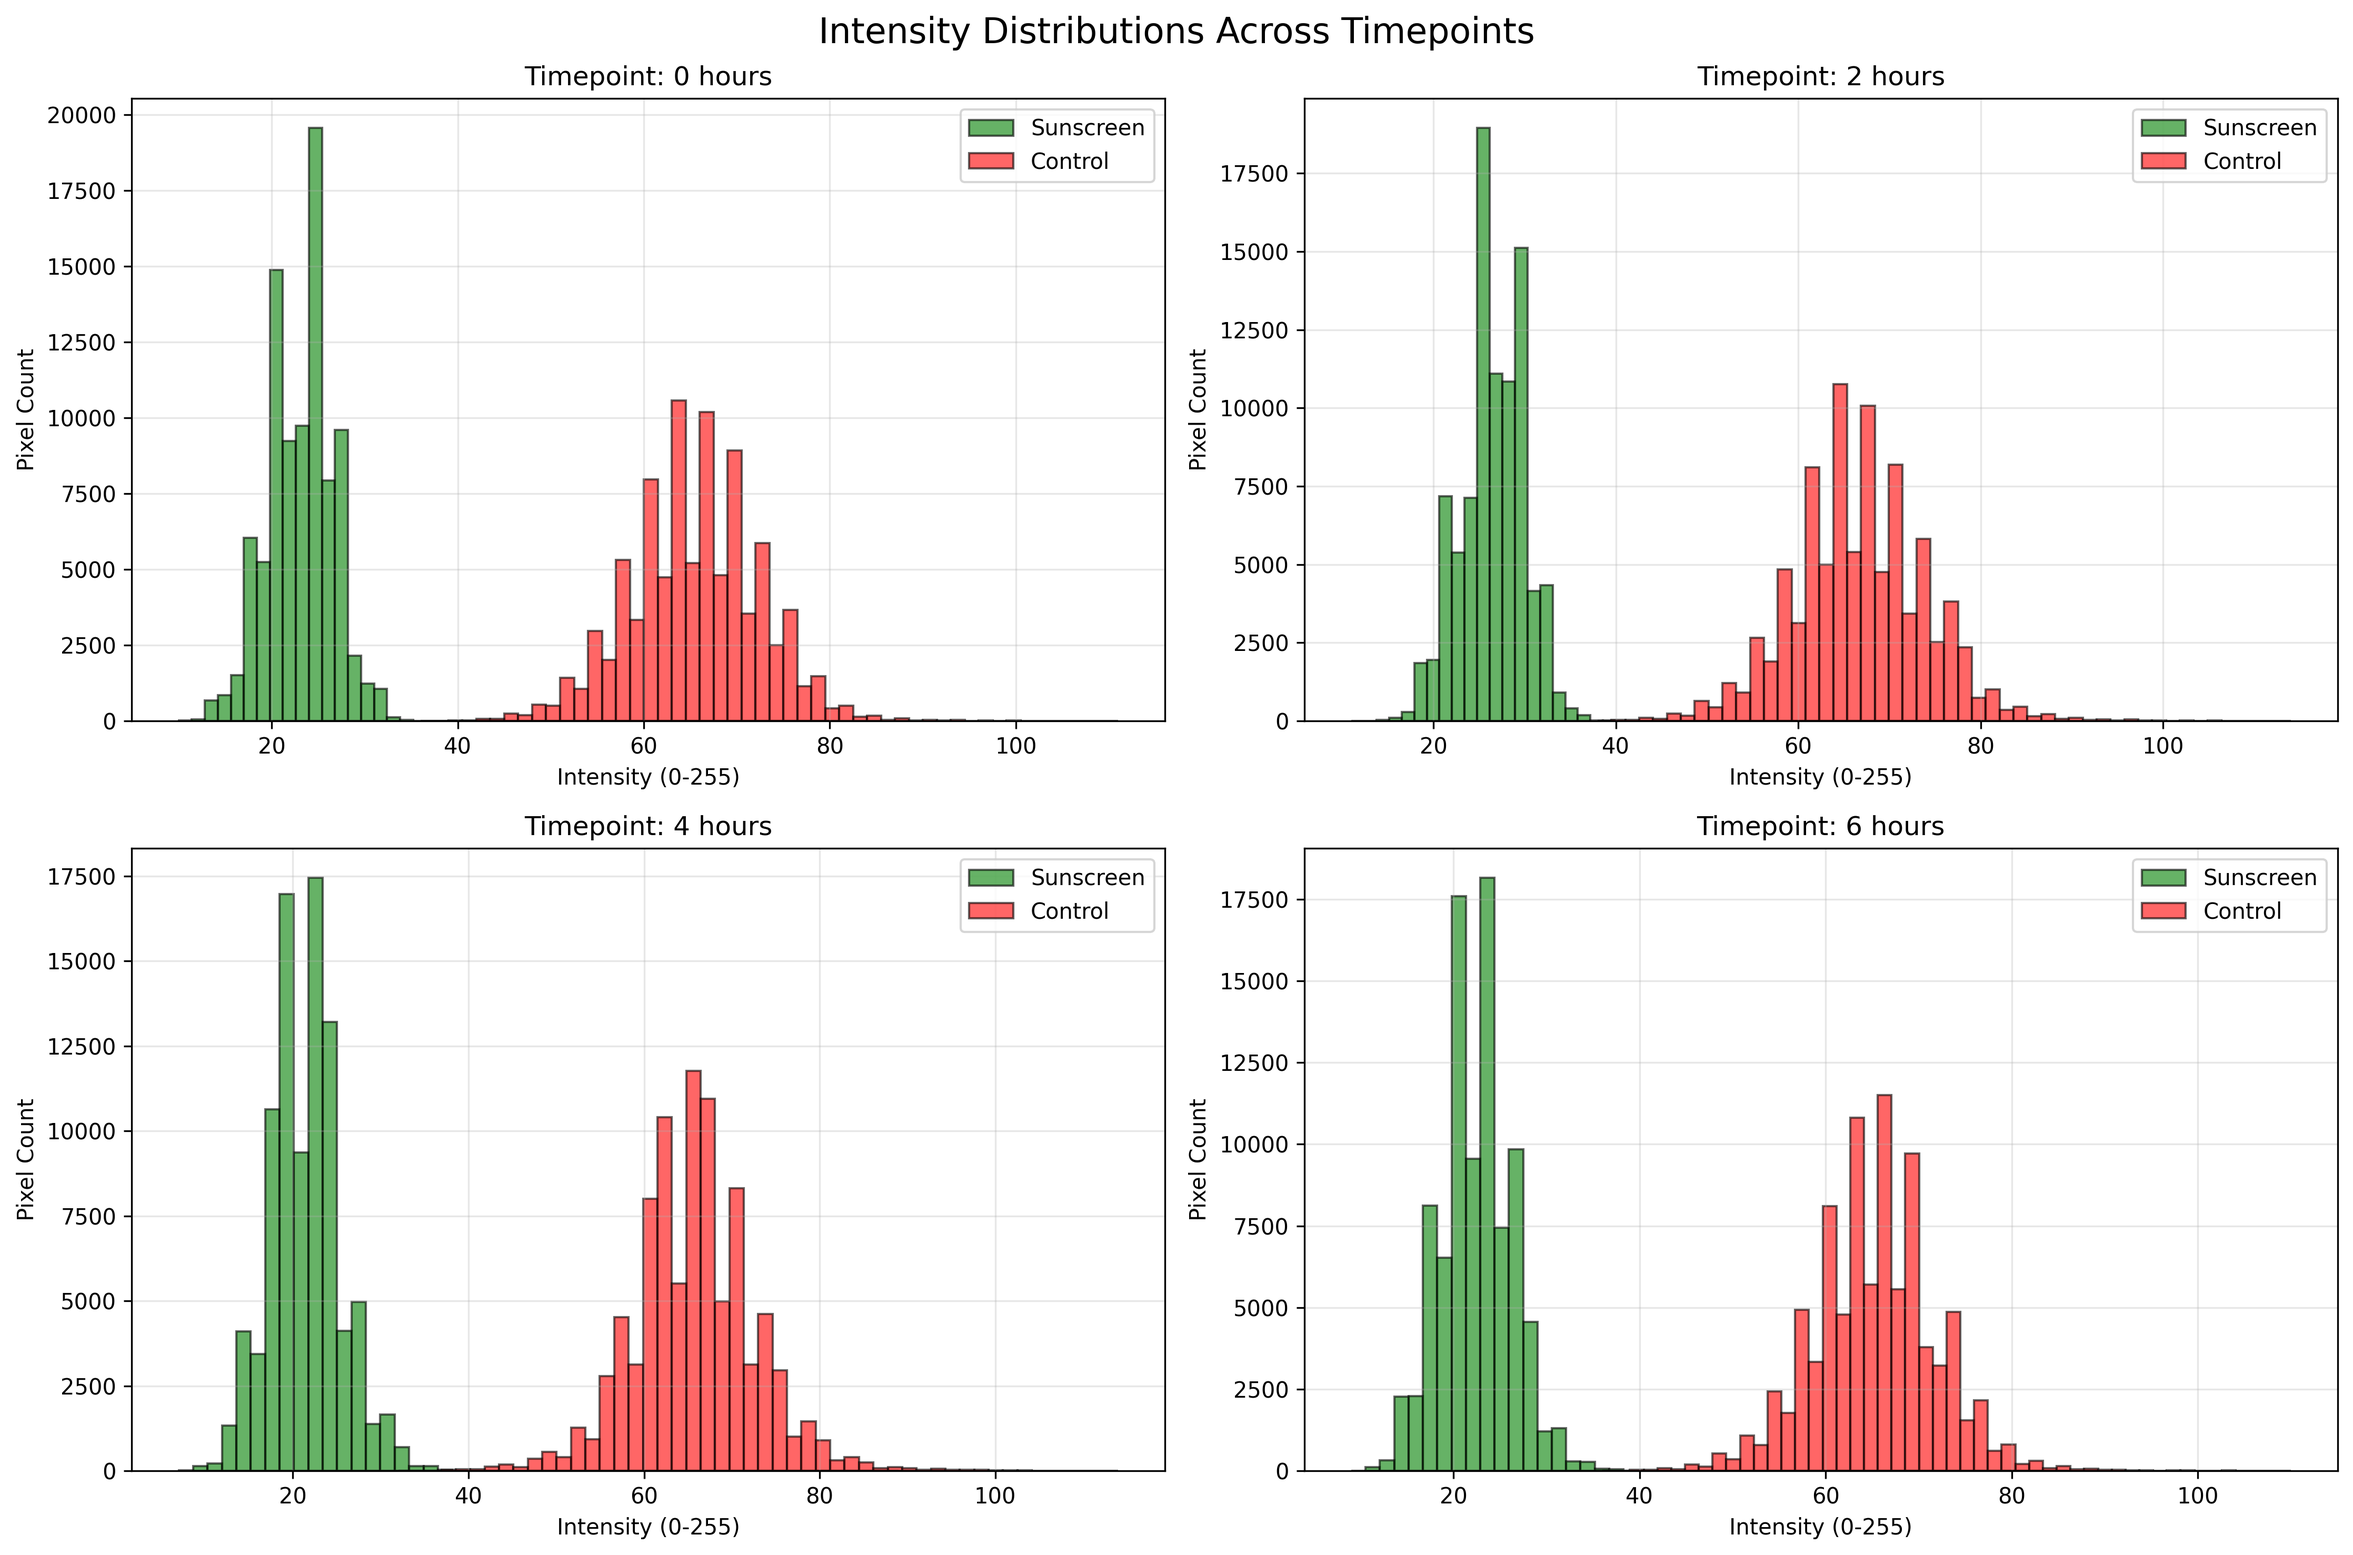
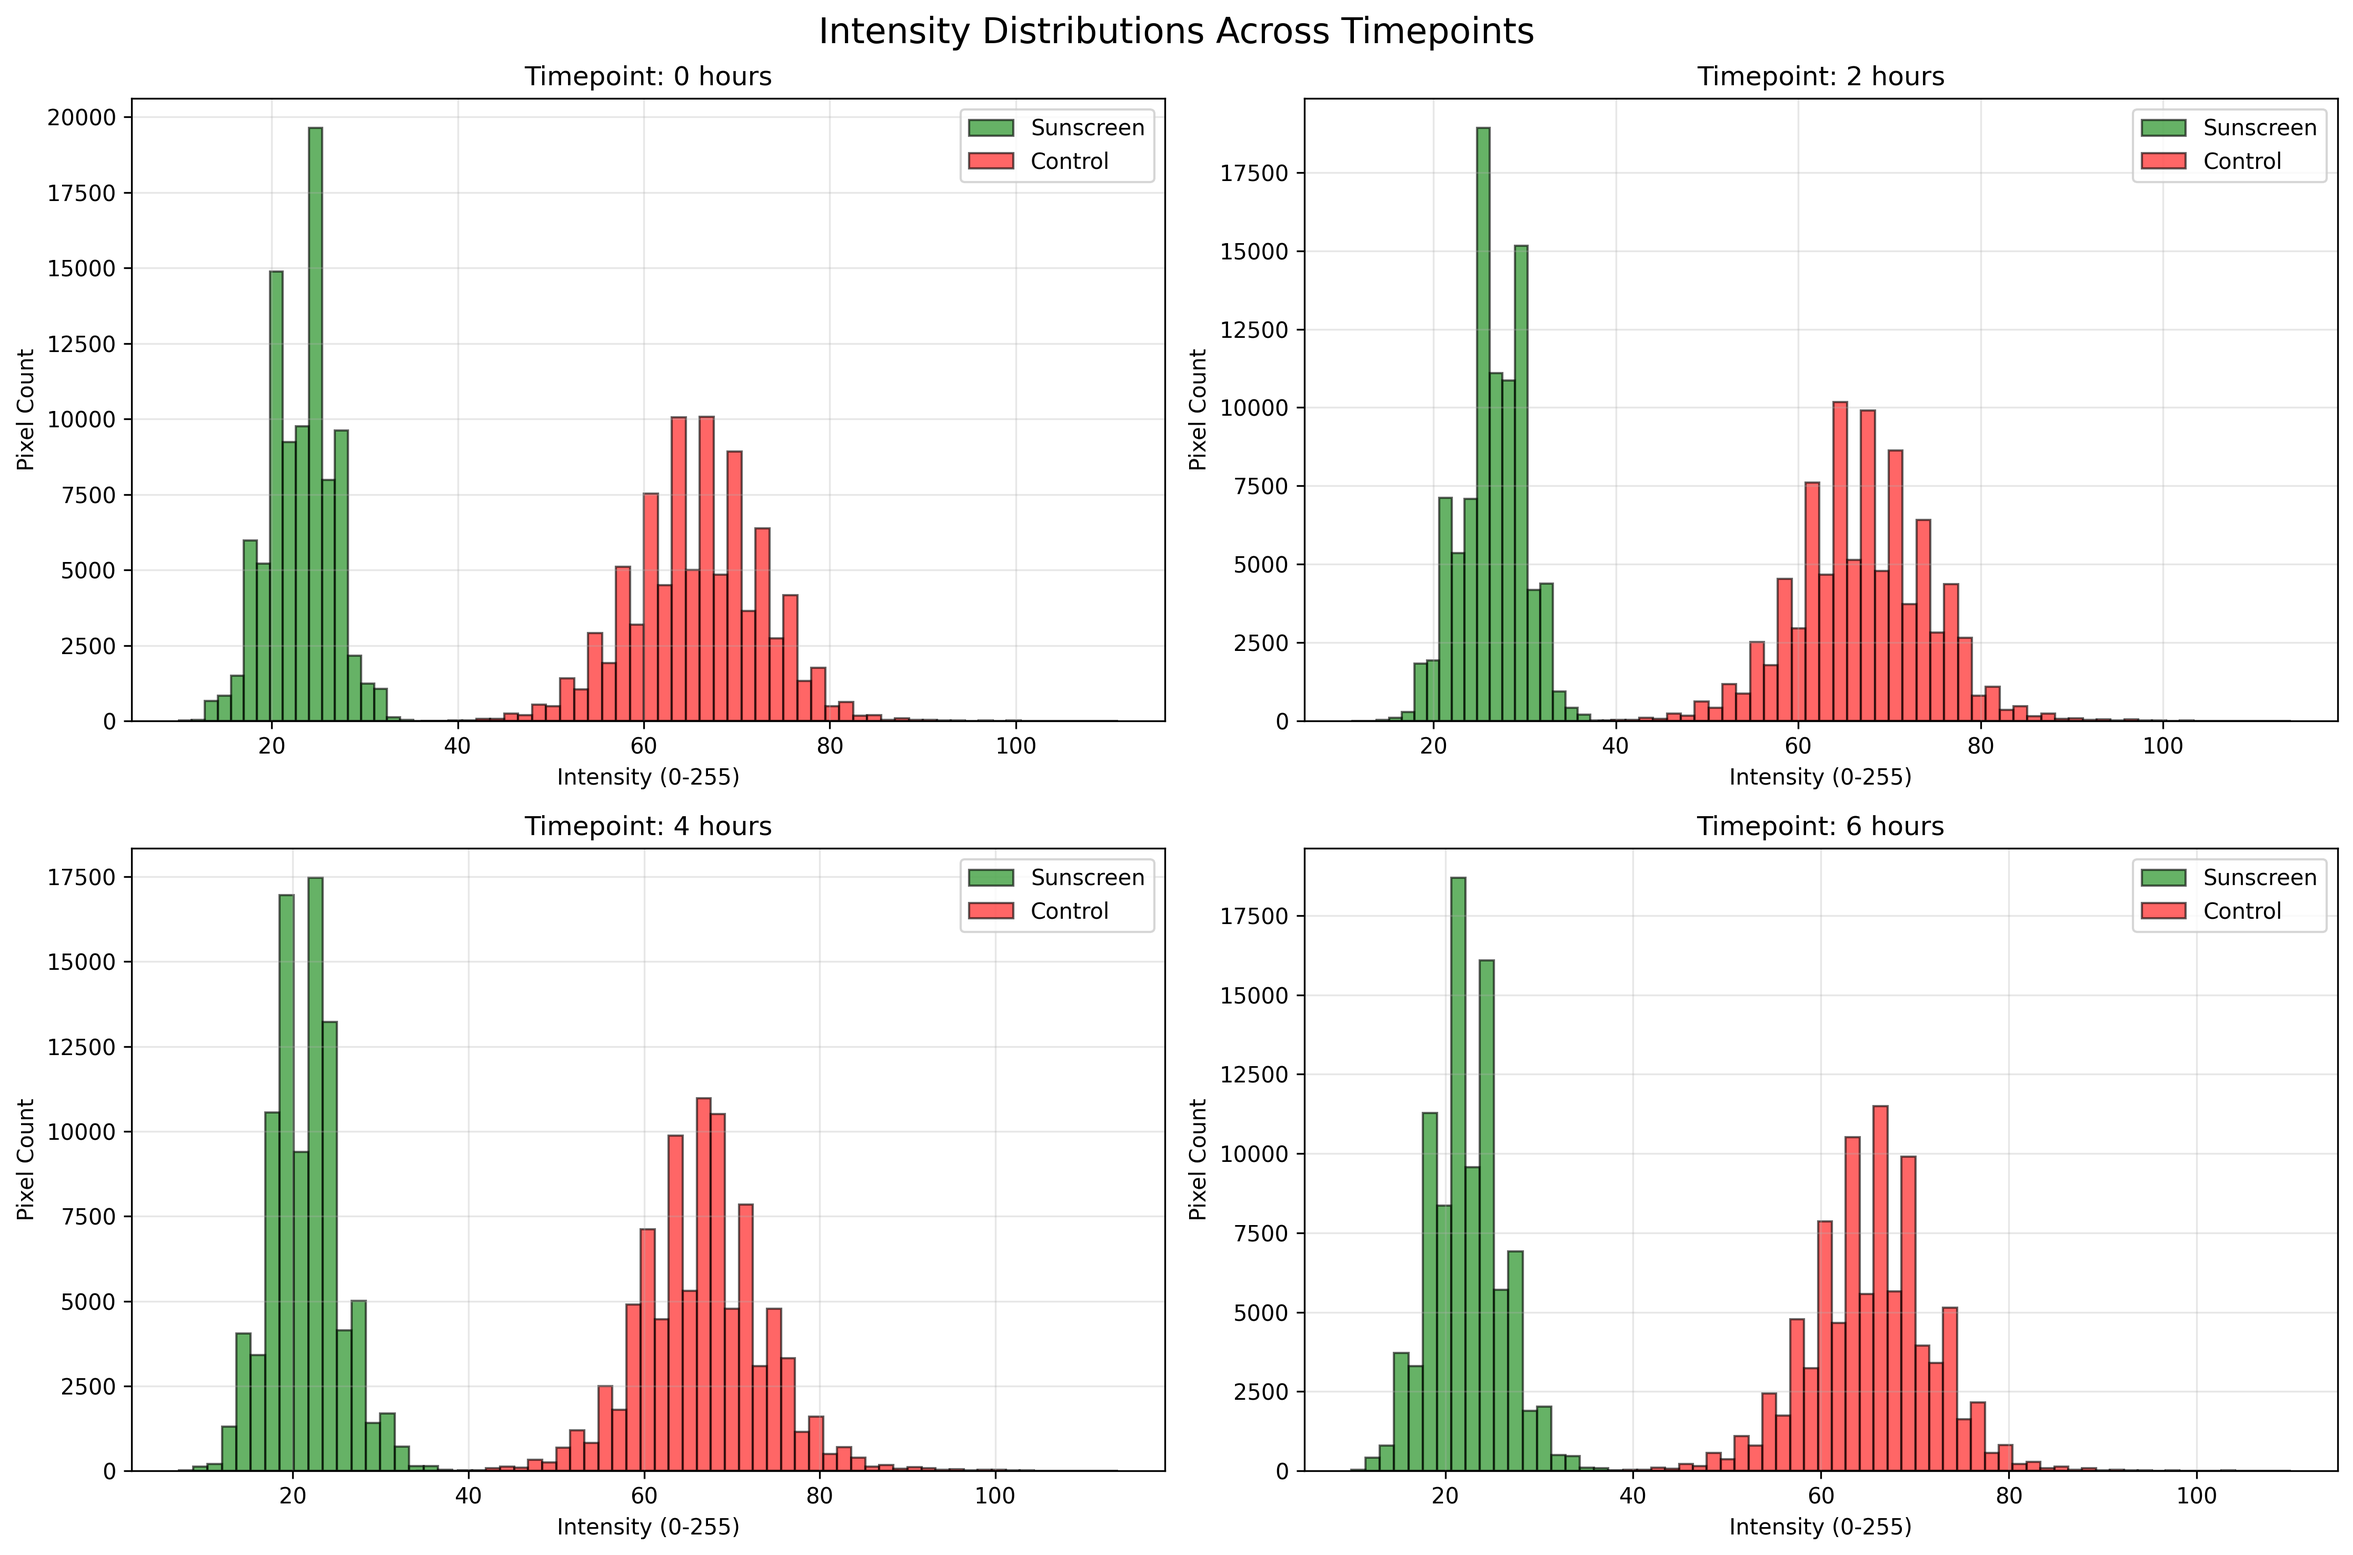
roi_dragger made

diff --git a/src/ui/roi_dragger.py b/src/ui/roi_dragger.py
@@ -1,0 +1,94 @@
+import cv2
+import numpy as np
+import json
+from pathlib import Path
+
+class ROIDragger:
+    def __init__(self, roi_size=(300, 300)):
+        self.roi_size = roi_size  # (width, height)
+        self.current_roi = None
+        self.dragging = False
+        self.selections = {}  # Store selections per image
+    
+    def select_roi_interactive(self, image, image_name, window_name="Drag ROI"):
+        img_display = image.copy()
+        h, w = img_display.shape[:2]
+        
+        #default starting position (making it center of the image)
+        default_x = w // 2 - self.roi_size[0] // 2
+        default_y = h // 2 - self.roi_size[1] // 2
+        self.current_roi = [default_x, default_y, self.roi_size[0], self.roi_size[1]]
+        
+        def mouse_callback(event, x, y, flags, param):
+            if event == cv2.EVENT_LBUTTONDOWN:
+                rx, ry, rw, rh = self.current_roi
+                if rx <= x <= rx + rw and ry <= y <= ry + rh:
+                    self.dragging = True
+                    self.drag_offset = (x - rx, y - ry)
+            
+            elif event == cv2.EVENT_MOUSEMOVE and self.dragging:
+                # moves roi with mouse
+                new_x = x - self.drag_offset[0]
+                new_y = y - self.drag_offset[1]
+                
+                new_x = max(0, min(new_x, w - rw))
+                new_y = max(0, min(new_y, h - rh))
+                
+                self.current_roi = [new_x, new_y, rw, rh]
+            
+            elif event == cv2.EVENT_LBUTTONUP:
+                self.dragging = False
+        
+        cv2.namedWindow(window_name)
+        cv2.setMouseCallback(window_name, mouse_callback)
+        
+        print(f"\n=== Selecting ROI for {image_name} ===")
+        print("Drag the green square to desired position")
+        print("Press SPACE to confirm, 'r' to reset, ESC to cancel")
+        
+        while True:
+            display_img = img_display.copy()
+            x, y, w, h = self.current_roi
+            
+            cv2.rectangle(display_img, (x, y), (x + w, y + h), (0, 255, 0), 3)
+            center_x, center_y = x + w // 2, y + h // 2
+            cv2.circle(display_img, (center_x, center_y), 5, (0, 0, 255), -1)
+            
+            cv2.putText(display_img, f"ROI: ({x},{y})", (10, 30), cv2.FONT_HERSHEY_SIMPLEX, 0.7, (255, 255, 255), 2)
+            cv2.putText(display_img, f"Size: {w}x{h}", (10, 60), cv2.FONT_HERSHEY_SIMPLEX, 0.7, (255, 255, 255), 2)
+            
+            cv2.putText(display_img, "Drag to move | SPACE: Save | ESC: Cancel", (10, h - 20), cv2.FONT_HERSHEY_SIMPLEX, 0.5, (255, 255, 255), 1)
+            cv2.imshow(window_name, display_img)
+            
+            key = cv2.waitKey(1) & 0xFF
+            
+            if key == ord(' '): 
+                cv2.destroyWindow(window_name)
+                self.selections[image_name] = tuple(self.current_roi)
+                print(f"✓ ROI saved for {image_name}: {self.current_roi}")
+                return tuple(self.current_roi)
+            
+            elif key == ord('r'):
+                self.current_roi = [default_x, default_y, self.roi_size[0], self.roi_size[1]]
+            
+            elif key == 27:  # esc key is 27
+                cv2.destroyWindow(window_name)
+                return None
+    
+    def save_selections(self, filename="roi_positions.json"):
+        """Save all ROI positions to JSON file"""
+        Path("config").mkdir(exist_ok=True)
+        with open(f"config/{filename}", 'w') as f:
+            json.dump(self.selections, f, indent=2)
+        print(f"ROI positions saved to config/{filename}")
+    
+    def load_selections(self, filename="roi_positions.json"):
+        """Load previously saved ROI positions"""
+        try:
+            with open(f"config/{filename}", 'r') as f:
+                self.selections = json.load(f)
+            print(f"Loaded {len(self.selections)} ROI positions")
+            return self.selections
+        except FileNotFoundError:
+            print("No saved ROI positions found")
+            return {}

diff --git a/main.py b/main.py
@@ -1,29 +1,26 @@
 import sys
 import os
 from pathlib import Path
-# import importlib
-os.environ['QT_QPA_PLATFORM'] = 'xcb'
+
+print("DEBUG 1: Starting script")
 
 project_root = Path(__file__).parent
 sys.path.insert(0, str(project_root))
 
-#disabling pycache for now
 sys.dont_write_bytecode = True
 os.environ['PYTHONDONTWRITEBYTECODE'] = '1'
 
+print("DEBUG 2: Before imports")
 from src.core.image_loader import ImageLoader
-# from src.ui.roi_selector import ROISelector
-# from src.ui.roi_setter import ROISetter
-from src.ui.roi_detector import ROIDetector
+from src.ui.roi_setter import ROISetter
 from src.core.intensity_analyzer import IntensityAnalyzer
 from src.data.exporter import DataExporter
-# importlib.reload(DataExporter)
 from src.visualization.plotter import Plotter
-
-
-
+print("DEBUG 3: Imports successful")
 
 def main():
+    print("DEBUG 4: Entering main() function")
+    
     image_paths = [
         'images/0hours.JPG',  
         'images/2hours.JPG',
@@ -31,30 +28,47 @@ def main():
         'images/6hours.JPG', 
     ]
     timepoints = [0, 2, 4, 6]
+    
+    print(f"DEBUG 5: Checking {len(image_paths)} images")
+    
+    # Check if images exist
+    for path in image_paths:
+        if not Path(path).exists():
+            print(f"DEBUG 6: MISSING IMAGE: {path}")
+            return
+    
+    print("DEBUG 7: All images found")
+    
     Path("outputs/figures").mkdir(parents=True, exist_ok=True)
     Path("outputs/reports").mkdir(parents=True, exist_ok=True)
+    print("DEBUG 8: Directories created")
     
-        
+    print("DEBUG 9: Creating components")
     image_loader = ImageLoader()
-    # roi_selector = ROISelector()
-    # roi_setter = ROISetter()
-    roi_detector = ROIDetector()
-    # intensity_analyzer = IntensityAnalyzer(roi_selector)
-    # intensity_analyzer = IntensityAnalyzer(roi_setter)
-    intensity_analyzer = IntensityAnalyzer(roi_detector)
+    roi_setter = ROISetter()
+    intensity_analyzer = IntensityAnalyzer(roi_setter)
+    
+    print("DEBUG 10: Loading images")
     images = image_loader.load_images(image_paths)
+    print(f"DEBUG 11: Loaded {len(images)} images")
     
-    # roi_selector.set_rois(images[0])
-    # roi_setter.set_rois(images[0])
-    roi_detector.detect_rois(images[0])
+    print("DEBUG 12: Setting ROIs")
+    roi_setter.set_rois(images[0])
     
+    print("DEBUG 13: Analyzing timepoints")
     results = intensity_analyzer.analyze_all_timepoints(images, timepoints)
-
+    print(f"DEBUG 14: Analyzed {len(results)} timepoints")
+    
+    print("DEBUG 15: Exporting results")
     DataExporter.print_statistics(results)
     DataExporter.export_all(results, 'uv_analysis')
-
-    #PLOTS WORRY ABOUT LATER, WORK ON CODE STRUCTURE AND FINDINGS FIRST
+    
+    print("DEBUG 16: Generating plots")
     Plotter.plot_intensity_distributions(results, 'outputs/figures/histograms.png')
     
+    print("DEBUG 17: Analysis complete!")
+
 if __name__ == "__main__":
+    print("DEBUG 18: __name__ == '__main__' is True")
     main()
+    print("DEBUG 19: After main() call")
